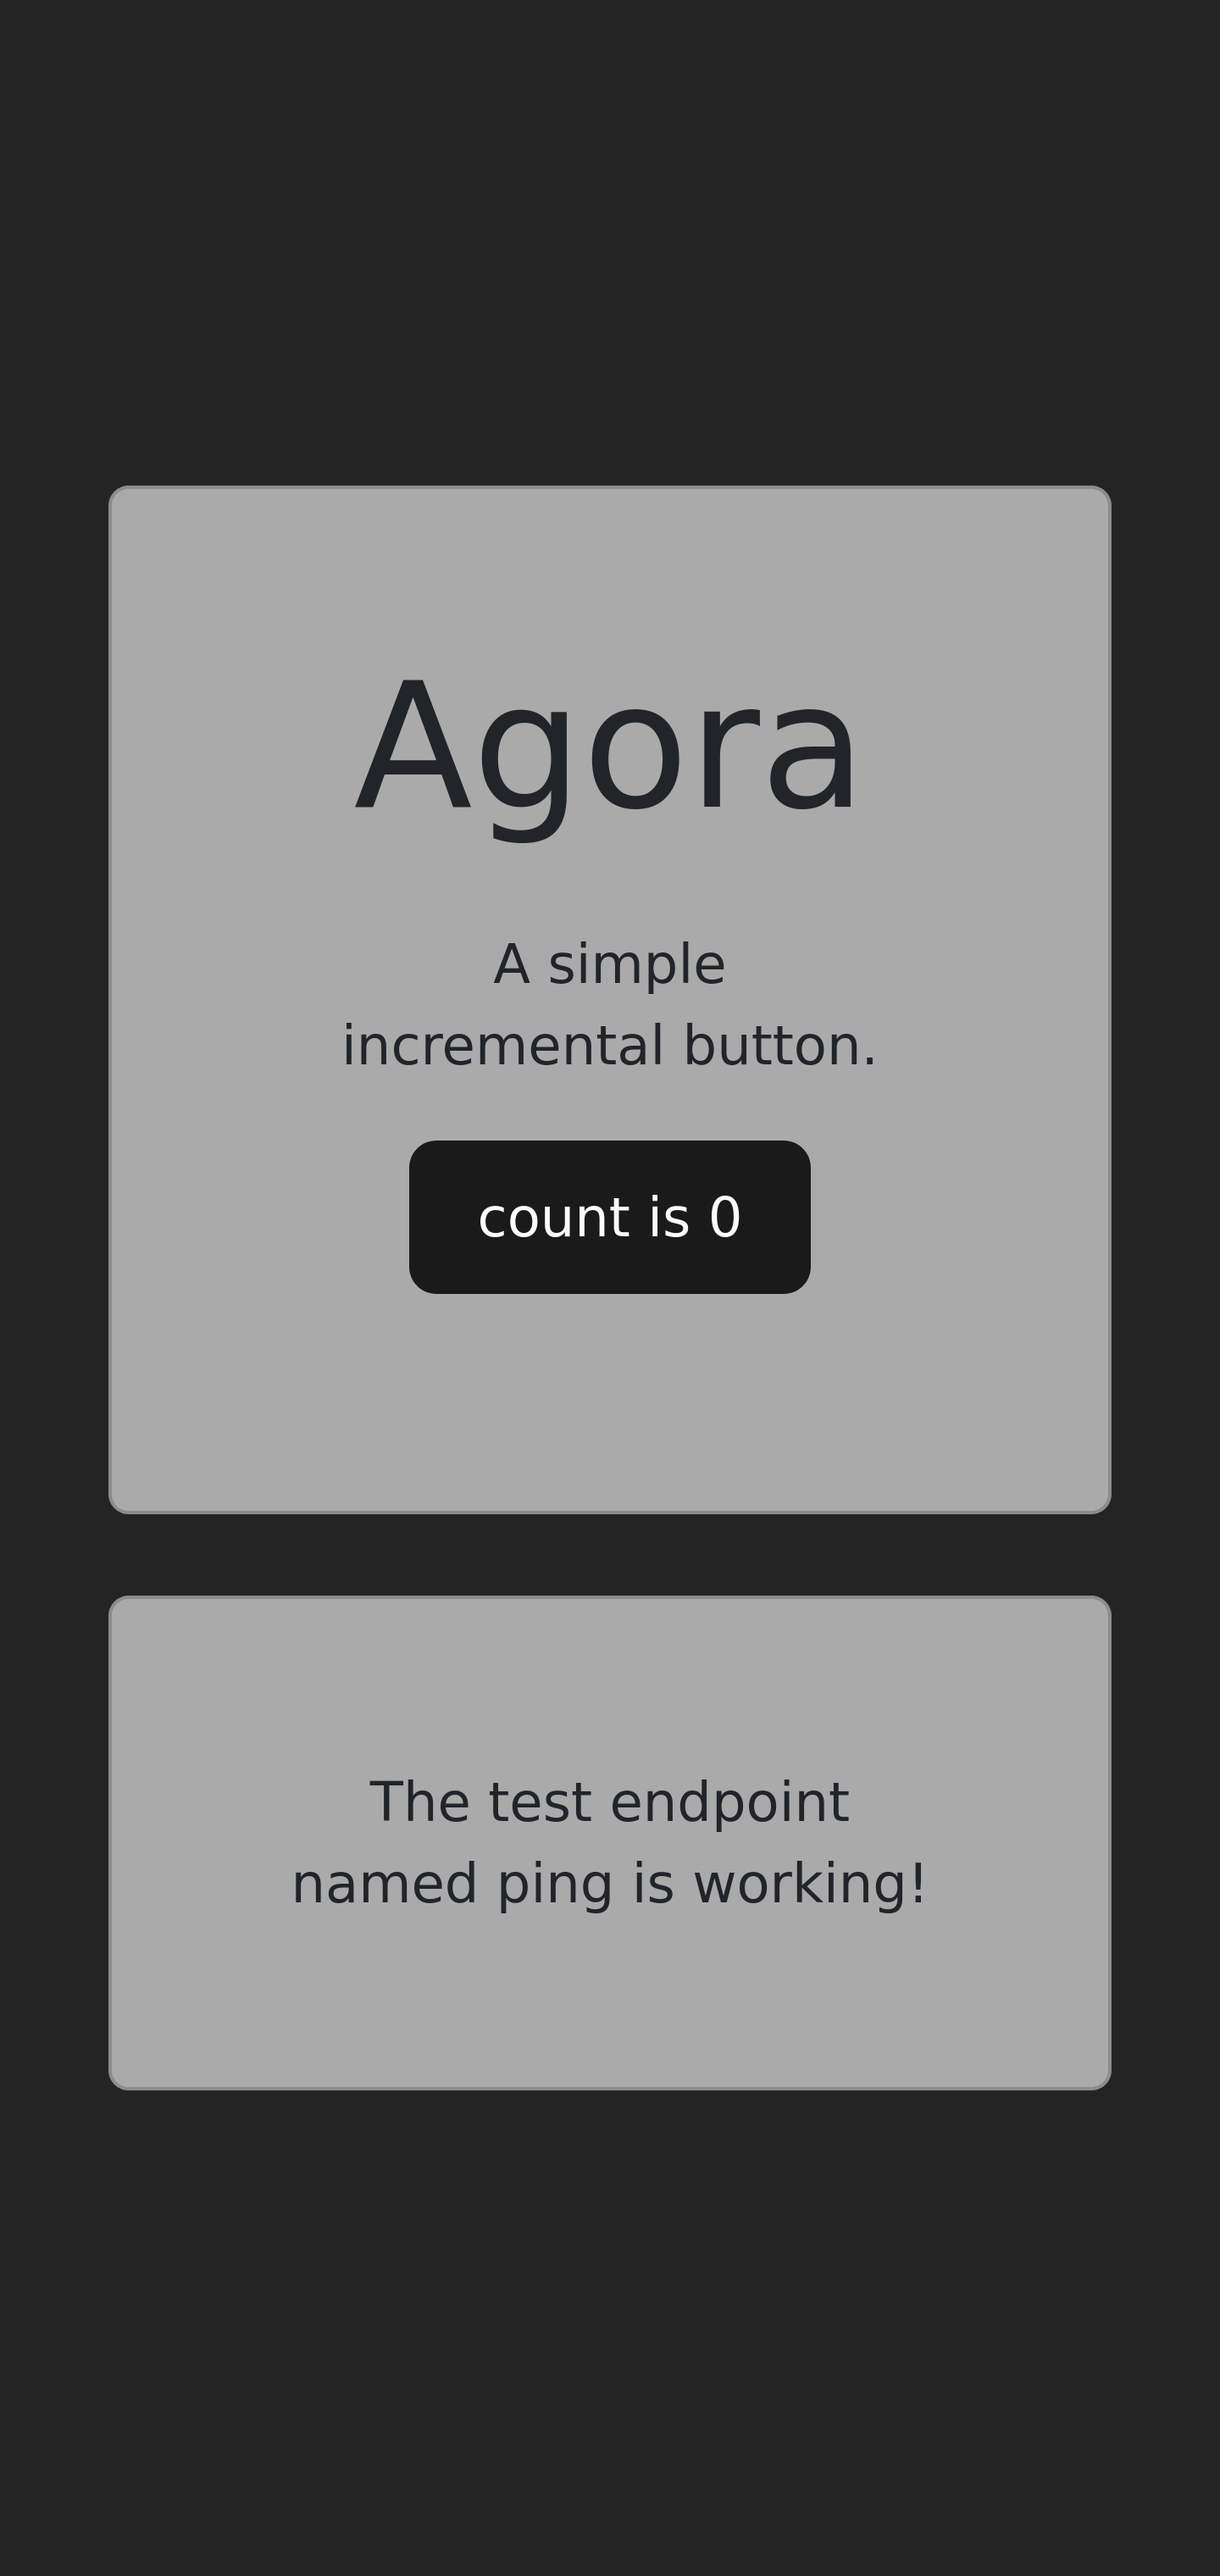
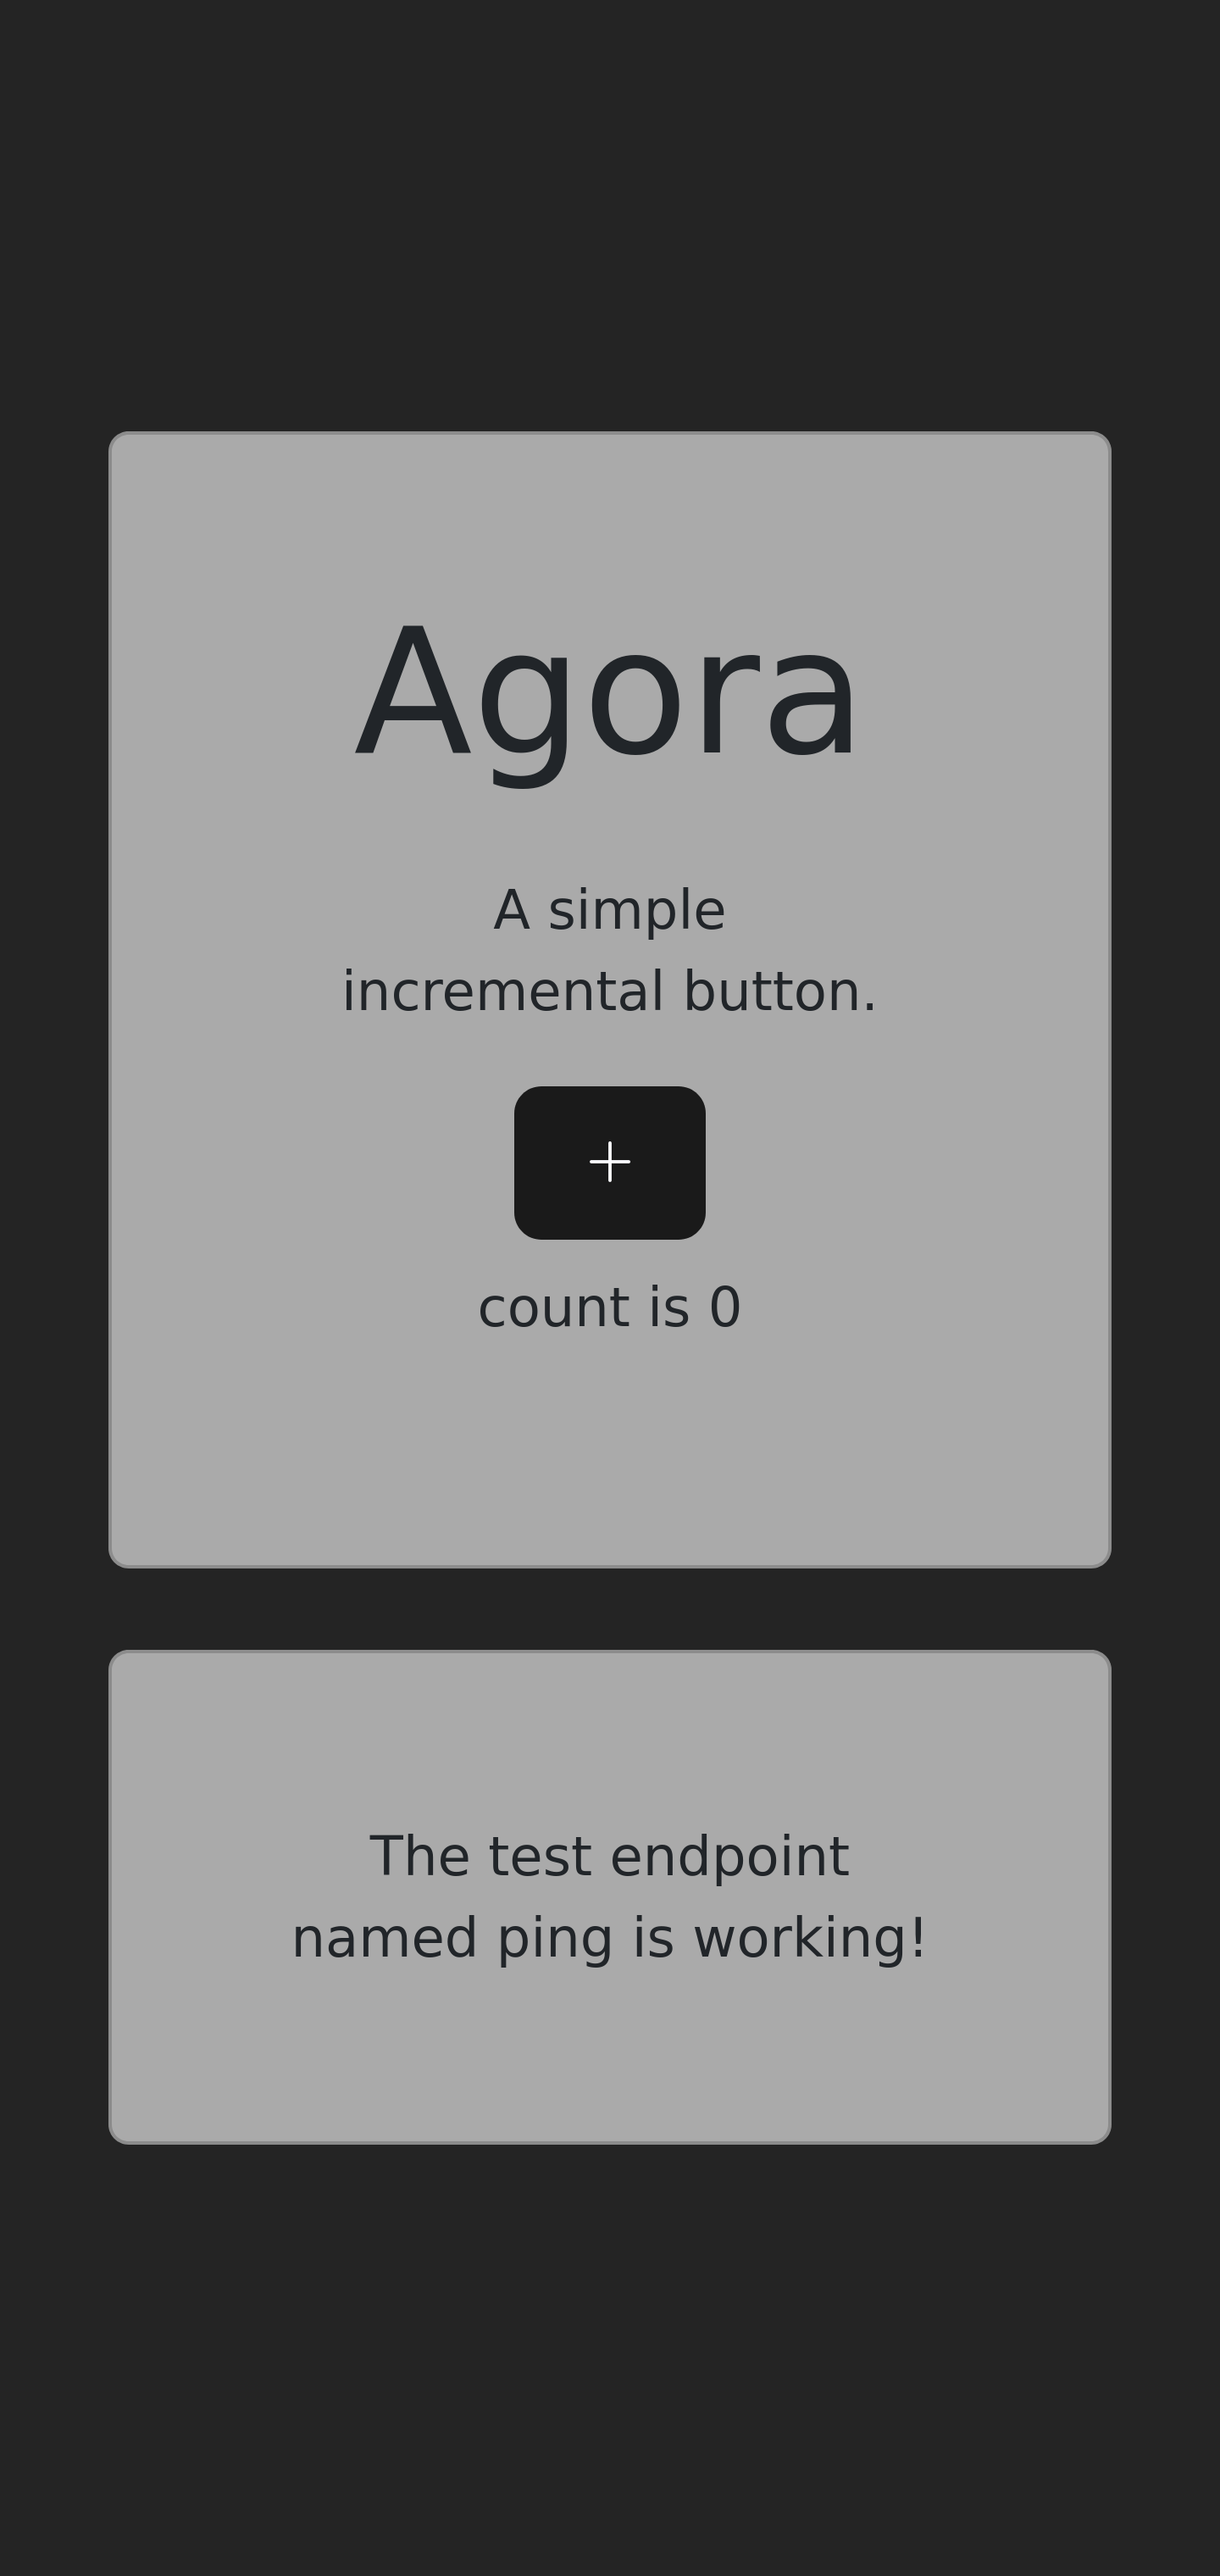
improvement

diff --git a/templates/agora/ui-agora04/public/index.html b/templates/agora/ui-agora04/public/index.html
@@ -23,7 +23,8 @@
           <h3 class="card-title">Agora</h3>
           <div class="card-body">
             <p class="card-text">A simple incremental button.</p>
-            <button id="increment">count is 0</button>
+            <button id="increment"><i class="bi bi-plus-lg"></i></button>
+            <output id="count" class="mt-2 d-block">count is 0</output>
           </div>
         </div>
       </div>
